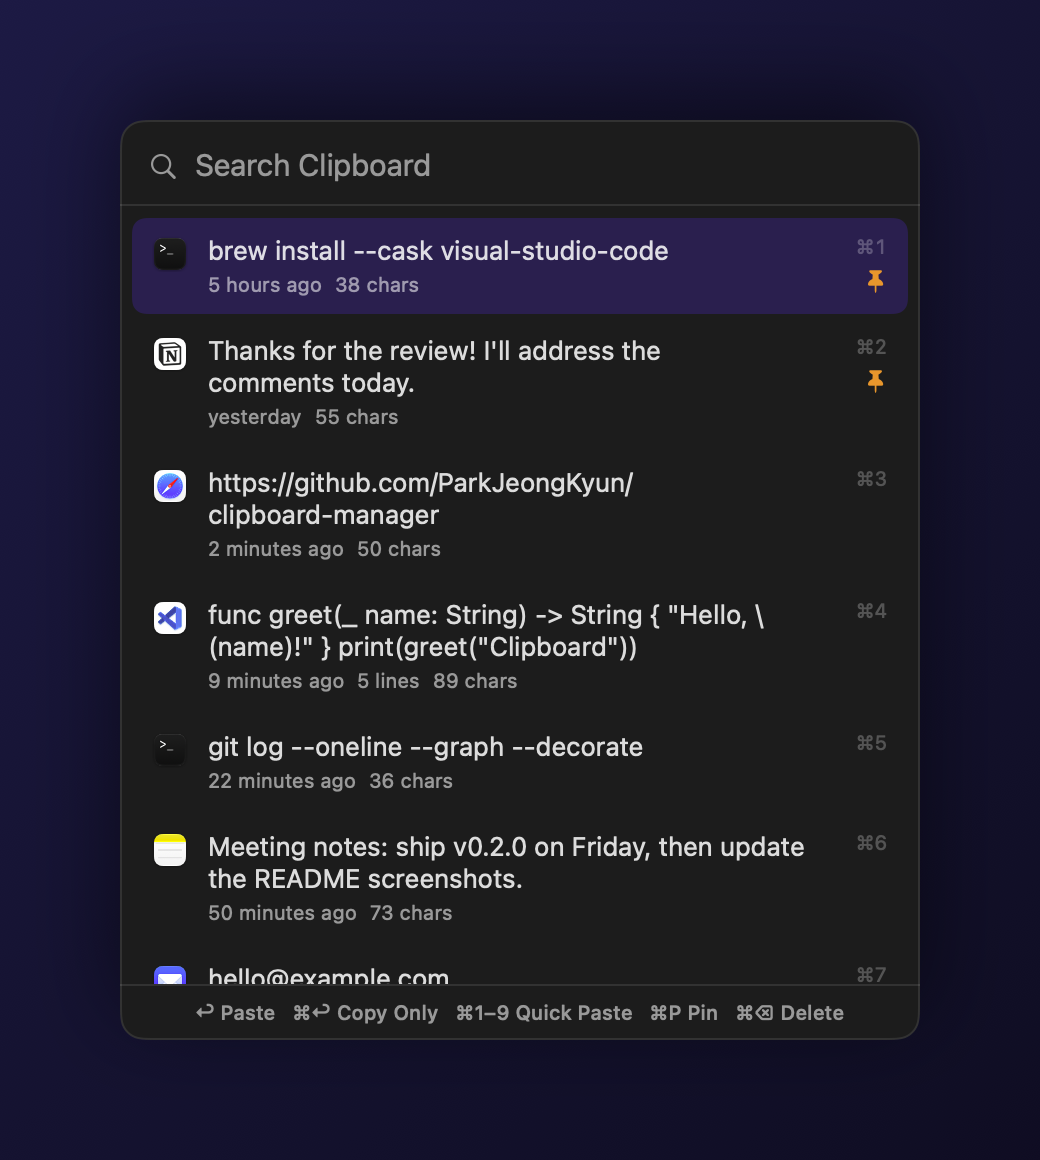
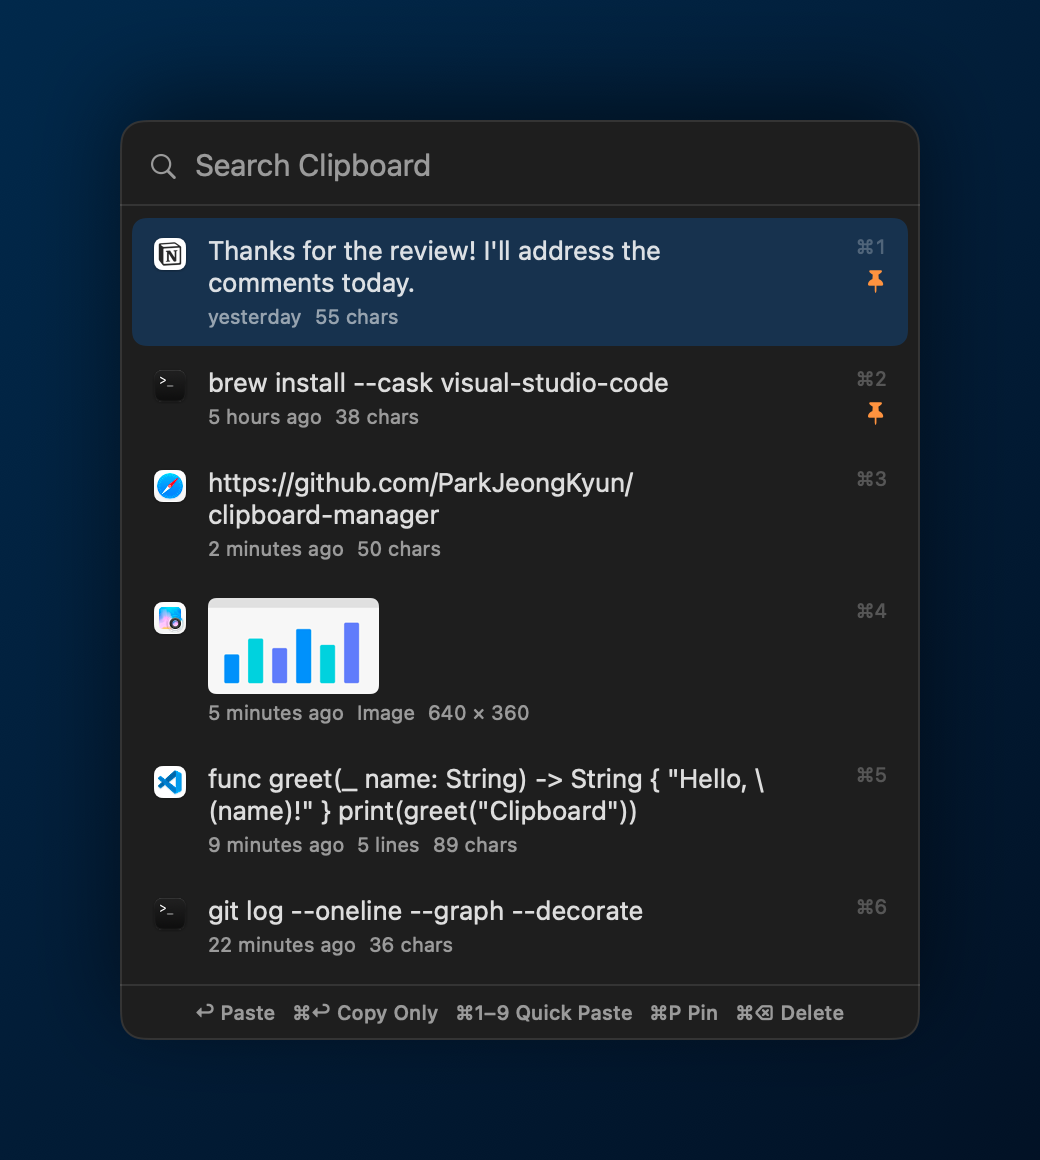
docs: README 개편, 소개 이미지 추가

diff --git a/Tests/ClipboardManagerTests/ScreenshotTests.swift b/Tests/ClipboardManagerTests/ScreenshotTests.swift
@@ -25,6 +25,24 @@ struct ScreenshotTests {
         try save(image, name: "quick-picker", appearance: appearance)
     }
 
+    /// 링크를 공유할 때 보이는 소개 이미지 (GitHub 저장소 Settings → Social preview에 올린다).
+    /// GitHub 권장 크기 1280×640, 1MB 이하
+    @Test func socialPreview() throws {
+        let model = QuickPickerModel(store: makeSampleStore())
+        model.moveSelection(by: 1)
+        let panel = QuickPickerView(model: model) { _ in }
+            .background(Color(nsColor: .windowBackgroundColor))
+            .clipShape(RoundedRectangle(cornerRadius: 12))
+            .overlay(RoundedRectangle(cornerRadius: 12).strokeBorder(.separator))
+
+        let size = NSSize(width: 1280, height: 640)
+        let image = try render(SocialPreview(panel: panel, icon: appIcon()), size: size, appearance: .darkAqua)
+        let url = outputDirectory.appendingPathComponent("social-preview.png")
+        try writeResized(image, to: size, url: url)
+        let bytes = try FileManager.default.attributesOfItem(atPath: url.path)[.size] as? Int ?? 0
+        #expect(bytes < 1_000_000)
+    }
+
 
     // MARK: - 샘플 데이터
 
@@ -43,10 +61,42 @@ struct ScreenshotTests {
         for (content, bundleID, age, _) in samples {
             store.record(content, sourceBundleID: bundleID, at: now.addingTimeInterval(-age))
         }
+        if let screenshot = sampleScreenshot() {
+            store.record(screenshot, sourceBundleID: "com.apple.Preview", at: now.addingTimeInterval(-60 * 5))
+        }
         for (content, _, _, pinned) in samples where pinned {
             if let item = store.items.first(where: { $0.text == content }) { store.togglePin(item.id) }
         }
         return store
+    }
+
+    /// 이미지 기록을 보여주기 위한 가짜 스크린샷 (막대 그래프가 있는 창)
+    private func sampleScreenshot() -> ClipboardImage? {
+        let width = 640, height = 360
+        guard let bitmap = NSBitmapImageRep(
+            bitmapDataPlanes: nil, pixelsWide: width, pixelsHigh: height, bitsPerSample: 8, samplesPerPixel: 4,
+            hasAlpha: true, isPlanar: false, colorSpaceName: .deviceRGB, bytesPerRow: 0, bitsPerPixel: 0
+        ) else { return nil }
+        NSGraphicsContext.saveGraphicsState()
+        NSGraphicsContext.current = NSGraphicsContext(bitmapImageRep: bitmap)
+        NSColor(white: 0.97, alpha: 1).setFill()
+        NSRect(x: 0, y: 0, width: width, height: height).fill()
+        NSColor(white: 0.88, alpha: 1).setFill()
+        NSRect(x: 0, y: height - 36, width: width, height: 36).fill()
+        let colors: [NSColor] = [.systemBlue, .systemTeal, .systemIndigo, .systemBlue, .systemTeal, .systemIndigo]
+        let values = [0.45, 0.7, 0.55, 0.85, 0.6, 0.95]
+        for (index, value) in values.enumerated() {
+            colors[index].setFill()
+            let bar = NSRect(x: 60 + index * 90, y: 40, width: 56, height: Int(Double(height - 120) * value))
+            NSBezierPath(roundedRect: bar, xRadius: 6, yRadius: 6).fill()
+        }
+        NSGraphicsContext.restoreGraphicsState()
+        return bitmap.representation(using: .png, properties: [:]).flatMap(ClipboardImage.init(pngData:))
+    }
+
+    private func appIcon() -> NSImage? {
+        let root = URL(fileURLWithPath: #filePath).deletingLastPathComponent().deletingLastPathComponent().deletingLastPathComponent()
+        return NSImage(contentsOf: root.appendingPathComponent("Resources/AppIcon.iconset/icon_512x512.png"))
     }
 
     // MARK: - 렌더링
@@ -81,6 +131,22 @@ struct ScreenshotTests {
         return image
     }
 
+    /// Retina로 그려진 이미지를 정해진 픽셀 크기로 줄여 PNG로 저장한다
+    private func writeResized(_ image: NSImage, to size: NSSize, url: URL) throws {
+        let bitmap = try #require(NSBitmapImageRep(
+            bitmapDataPlanes: nil, pixelsWide: Int(size.width), pixelsHigh: Int(size.height), bitsPerSample: 8, samplesPerPixel: 4,
+            hasAlpha: true, isPlanar: false, colorSpaceName: .deviceRGB, bytesPerRow: 0, bitsPerPixel: 0
+        ))
+        bitmap.size = size
+        NSGraphicsContext.saveGraphicsState()
+        NSGraphicsContext.current = NSGraphicsContext(bitmapImageRep: bitmap)
+        NSGraphicsContext.current?.imageInterpolation = .high
+        image.draw(in: NSRect(origin: .zero, size: size))
+        NSGraphicsContext.restoreGraphicsState()
+        try FileManager.default.createDirectory(at: outputDirectory, withIntermediateDirectories: true)
+        try #require(bitmap.representation(using: .png, properties: [:])).write(to: url)
+    }
+
     private func save(_ image: NSImage, name: String, appearance: NSAppearance.Name) throws {
         let suffix = appearance == .darkAqua ? "dark" : "light"
         let url = outputDirectory.appendingPathComponent("\(name)-\(suffix).png")
@@ -108,5 +174,47 @@ private struct Showcase<Content: View>: View {
             content
                 .shadow(color: .black.opacity(colorScheme == .dark ? 0.5 : 0.25), radius: 24, y: 12)
         }
+    }
+}
+
+/// 소개 이미지: 왼쪽에 아이콘과 소개 문구, 오른쪽에 실제 빠른 선택창
+private struct SocialPreview<Panel: View>: View {
+    let panel: Panel
+    let icon: NSImage?
+
+    var body: some View {
+        ZStack {
+            LinearGradient(
+                colors: [Color(red: 0.05, green: 0.16, blue: 0.30), Color(red: 0.02, green: 0.07, blue: 0.15)],
+                startPoint: .topLeading,
+                endPoint: .bottomTrailing
+            )
+            HStack(spacing: 56) {
+                VStack(alignment: .leading, spacing: 22) {
+                    if let icon {
+                        Image(nsImage: icon)
+                            .resizable()
+                            .frame(width: 120, height: 120)
+                    }
+                    Text(verbatim: "Clipboard Manager")
+                        .font(.system(size: 54, weight: .bold))
+                    Text(verbatim: "Win+V for Mac")
+                        .font(.system(size: 34, weight: .semibold))
+                        .foregroundStyle(Color(red: 0.45, green: 0.75, blue: 1.0))
+                    VStack(alignment: .leading, spacing: 8) {
+                        Text(verbatim: "⌃⌘V  ·  text & images  ·  pins  ·  search")
+                        Text(verbatim: "Free · open source · encrypted · no tracking")
+                    }
+                    .font(.system(size: 22))
+                    .foregroundStyle(.white.opacity(0.7))
+                }
+                .foregroundStyle(.white)
+                .frame(width: 600, alignment: .leading)
+
+                panel
+                    .shadow(color: .black.opacity(0.5), radius: 24, y: 12)
+            }
+        }
+        .frame(width: 1280, height: 640)
     }
 }

diff --git a/README.md b/README.md
@@ -1,7 +1,17 @@
-# Clipboard Manager
+# Clipboard Manager — Win+V for Mac
 
-A lightweight macOS clipboard history app that lives in the menu bar, inspired by Windows' `Win + V`.
-Press a shortcut, pick an item with the keyboard, and it is pasted straight into the app you were using.
+[![Latest release](https://img.shields.io/github/v/release/ParkJeongKyun/clipboard-manager)](https://github.com/ParkJeongKyun/clipboard-manager/releases/latest)
+![macOS 15+](https://img.shields.io/badge/macOS-15%2B-blue)
+[![License: MIT](https://img.shields.io/badge/license-MIT-green)](LICENSE)
+
+Coming from Windows and missing `Win + V`? This is a free, open-source clipboard history for the Mac menu bar.
+Press `⌃⌘V`, pick something you copied earlier with the keyboard, and it is pasted straight into the app you were using.
+
+> 윈도우의 `Win + V`처럼 쓰는 맥용 클립보드 기록 앱입니다. 무료·오픈소스이고, 한국어 화면과 한글 입력을 지원합니다.
+
+```sh
+curl -fsSL https://raw.githubusercontent.com/ParkJeongKyun/clipboard-manager/main/install.sh | bash
+```
 
 <p align="center">
   <picture>
@@ -9,6 +19,13 @@ Press a shortcut, pick an item with the keyboard, and it is pasted straight into
     <img src="docs/images/quick-picker-light.png" alt="Quick picker: search, pinned items and recent clipboard history" width="480">
   </picture>
 </p>
+
+## Why this one?
+
+- **Works like Windows' clipboard history**: a small picker at your pointer, recent text and images, pinned items first, `↩` to paste. No new habits to learn.
+- **Keyboard first, never steals focus**: the picker doesn't activate the app, so pasting lands exactly where you were typing.
+- **Private by design**: no account, no analytics, no cloud. History is encrypted on your Mac, password managers are ignored, and screenshots aren't kept on disk unless you pin them.
+- **Small and native**: Swift/SwiftUI, a few MB, no Electron. English and Korean (한국어), with proper Korean IME and non-QWERTY keyboard layout support.
 
 ## Features
 
@@ -76,7 +93,7 @@ A clipboard manager sees everything you copy, so here is exactly what this app d
 
 | | Why |
 |---|---|
-| Clipboard (text only) | Polls the pasteboard change counter and records new text. No special permission is needed for this on macOS. |
+| Clipboard (text and images) | Polls the pasteboard change counter and records new text or images. No special permission is needed for this on macOS. |
 | Accessibility permission | Only to send `⌘V` for auto-paste, and (if "Open At: Text Cursor" is selected) to read the *position* of the text cursor. It never reads text from other apps. |
 | Global shortcut `⌃⌘V` | Registered with `RegisterEventHotKey`, which only reports that one shortcut. The app has **no keyboard monitoring**: no event taps, no global key monitors. |
 | Network | Only `api.github.com` / `github.com` to check for and download updates. Can be turned off in Settings. No analytics or telemetry. |
@@ -86,7 +103,8 @@ A clipboard manager sees everything you copy, so here is exactly what this app d
 - History is stored only on your Mac in `~/Library/Application Support/ClipboardManager`, encrypted with AES-GCM. The key is kept in your Keychain and is never synced (`ThisDeviceOnly`). The folder and file are readable only by you.
 - Text that apps mark as confidential/transient ([nspasteboard.org](http://nspasteboard.org) types, e.g. passwords copied from a password manager) is never recorded.
 - By default nothing is recorded from password manager apps (Keychain Access, Passwords, 1Password, Bitwarden, KeePassXC, Enpass). You can turn this off in **Settings → Privacy**, and add any other app under **Ignored Apps**.
-- Items larger than 1 MB are not recorded. **Keep History For** can automatically delete unpinned items after a day, week or month. Recording can be paused from the menu bar.
+- Text larger than 1 MB and images larger than 4 MB are not recorded. Unpinned images are kept in memory only and are gone when the app quits; pinned images are encrypted on disk like the rest of the history.
+- **Keep History For** can automatically delete unpinned items after a day, week or month. Recording can be paused from the menu bar, and image recording can be turned off in Settings.
 
 **Updates**
 
